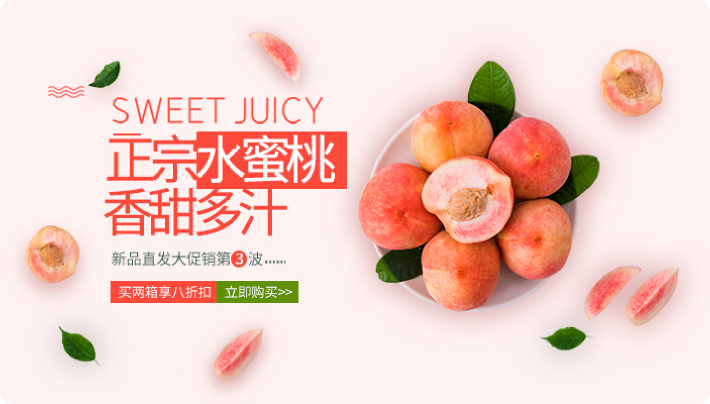
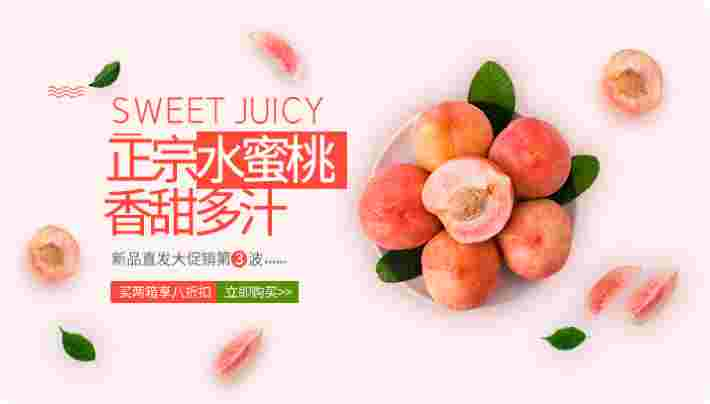
压缩了图片大小

diff --git a/views/singlePage/classify/classify.vue b/views/singlePage/classify/classify.vue
@@ -5,21 +5,29 @@
 		<view class="searchBar">
 			<u-search placeholder="发现店铺/商品" :show-action="false"></u-search>
 		</view>
-		<!-- 右侧tab栏 -->
+		<!-- 左侧tab栏 -->
 		<view class="Tab-container">
 			<scroll-view scroll-y="true" :height="classifyList.length*60*2+'rpx'" class="scroll-cotainer">
-				<view class="tab-item-container" v-for="(item,index) in classifyList" :key="index">
+				<view class="tab-item-container" @click="toggleSelect(index)"  :class="{'tab-item-active':index===selectIndex}"
+				 v-for="(item,index) in classifyList" :key="index">
+					<view class="line" v-show="selectIndex===index"></view>
 					<view class="tab-item">{{item.title}}</view>
 				</view>
 			</scroll-view>
-			<scroll-view scroll-y="true" class="scroll-cotainer-right">
-				<view class="classify-item-container" v-for="(item,index) in classifyList" :key="index">
+			<!-- 左侧分类栏 -->
+			<scroll-view scroll-y="true" class="scroll-cotainer-right" @scroll="calssScroll" :scroll-top="scrollTop"
+			 scroll-with-animation="true" :scroll-into-view="classfiyItemId">
+			 <!-- 广告 -->
+				<!-- <view class="bannerAd">
+					<image src="@/static/images/Product/fenleiBanner.png" mode=""></image>
+				</view> -->
+				<view class="classify-item-container" v-for="(item,index) in classifyList" :key="index" :id="'classItemId'+index">
 					<view class="classify-item">
 						<view class="item-className">
 							{{item.title}}
 						</view>
 						<view class="item-button-container">
-							<view class="item-button" v-for="(item1,index1) in item.children" :key="index">
+							<view class="item-button" v-for="(item1,index1) in item.children" :key="index1">
 								{{item1}}
 							</view>
 						</view>
@@ -41,8 +49,36 @@
 				selectIndex: 0,
 				buttonStyle: {
 
-				}
+				},
+				scrollTop: 0,
+				classScrollHeight: 0,
+				classfiyItemId:'',
+				isScroll:false,
+				time:null
 			};
+		},
+		methods: {
+			toggleSelect(index) {
+				this.selectIndex = index
+				this.classfiyItemId = 'classItemId'+index
+				this.isScroll = true
+				clearTimeout(this.time)
+				this.time = setTimeout(()=>{
+					this.isScroll = false
+				},500)
+			},
+			calssScroll(e) {
+				if(this.isScroll) return
+				let scrollHeight  = e.detail.scrollHeight // 总高度
+				let scrollTop = e.detail.scrollTop // 滚动高度
+				let usableScrollTop = scrollHeight/1.60 // 可滚动高度
+				let nodeHeight = 133
+				
+				let computedIndex = Math.floor(scrollTop/usableScrollTop*10)
+				
+				this.selectIndex = computedIndex
+				console.log(computedIndex)
+			}
 		}
 	}
 </script>
@@ -75,13 +111,31 @@
 					height: 120rpx;
 					width: 202rpx;
 					box-sizing: border-box;
-					border-bottom: 1px solid #CCCCCC;
 					background-color: #F5F5F5;
+					position: relative;
+
 					.tab-item {
 						font-size: 28rpx;
-						line-height: 120rpx;
-						padding-left: 46rpx;
+						position: absolute;
+						top: 50%;
+						transform: translateY(-50%);
+						left: 46rpx;
 					}
+				}
+
+				// 选中样式
+				.tab-item-active {
+					background-color: #FFF;
+					position: relative;
+				}
+
+				.line {
+					width: 8rpx;
+					height: 50rpx;
+					background-color: #24A7FF;
+					position: absolute;
+					top: 50%;
+					transform: translateY(-50%);
 				}
 			}
 
@@ -92,6 +146,17 @@
 				height: 100%;
 				box-sizing: border-box;
 				padding: 30rpx 36rpx 30rpx 34rpx;
+
+				// 广告区域
+				.bannerAd {
+					width: 478rpx;
+					height: 200rpx;
+
+					image {
+						width: 478rpx;
+						height: 200rpx;
+					}
+				}
 
 				.classify-item-container {
 					.classify-item {

diff --git a/src/utils/fakeData.js b/src/utils/fakeData.js
@@ -119,7 +119,7 @@ let classifyList = [{
 		'住宿'
 	]
 },{
-	title: '热门推荐',
+	title: '美食',
 	children: [
 		'面包',
 		'火锅',
@@ -127,7 +127,7 @@ let classifyList = [{
 		'住宿'
 	]
 },{
-	title: '热门推荐',
+	title: '服装',
 	children: [
 		'面包',
 		'火锅',
@@ -135,7 +135,7 @@ let classifyList = [{
 		'住宿'
 	]
 },{
-	title: '热门推荐',
+	title: '美容美发',
 	children: [
 		'面包',
 		'火锅',
@@ -143,7 +143,7 @@ let classifyList = [{
 		'住宿'
 	]
 },{
-	title: '热门推荐',
+	title: '住宿',
 	children: [
 		'面包',
 		'火锅',
@@ -151,7 +151,7 @@ let classifyList = [{
 		'住宿'
 	]
 },{
-	title: '热门推荐',
+	title: '旅游度假',
 	children: [
 		'面包',
 		'火锅',
@@ -159,7 +159,7 @@ let classifyList = [{
 		'住宿'
 	]
 },{
-	title: '热门推荐',
+	title: '交通出行',
 	children: [
 		'面包',
 		'火锅',
@@ -167,7 +167,7 @@ let classifyList = [{
 		'住宿'
 	]
 },{
-	title: '热门推荐',
+	title: '孕婴儿童',
 	children: [
 		'面包',
 		'火锅',
@@ -175,7 +175,7 @@ let classifyList = [{
 		'住宿'
 	]
 },{
-	title: '热门推荐',
+	title: '宠物',
 	children: [
 		'面包',
 		'火锅',
@@ -183,7 +183,7 @@ let classifyList = [{
 		'住宿'
 	]
 },{
-	title: '热门推荐',
+	title: '学习住宿',
 	children: [
 		'面包',
 		'火锅',
